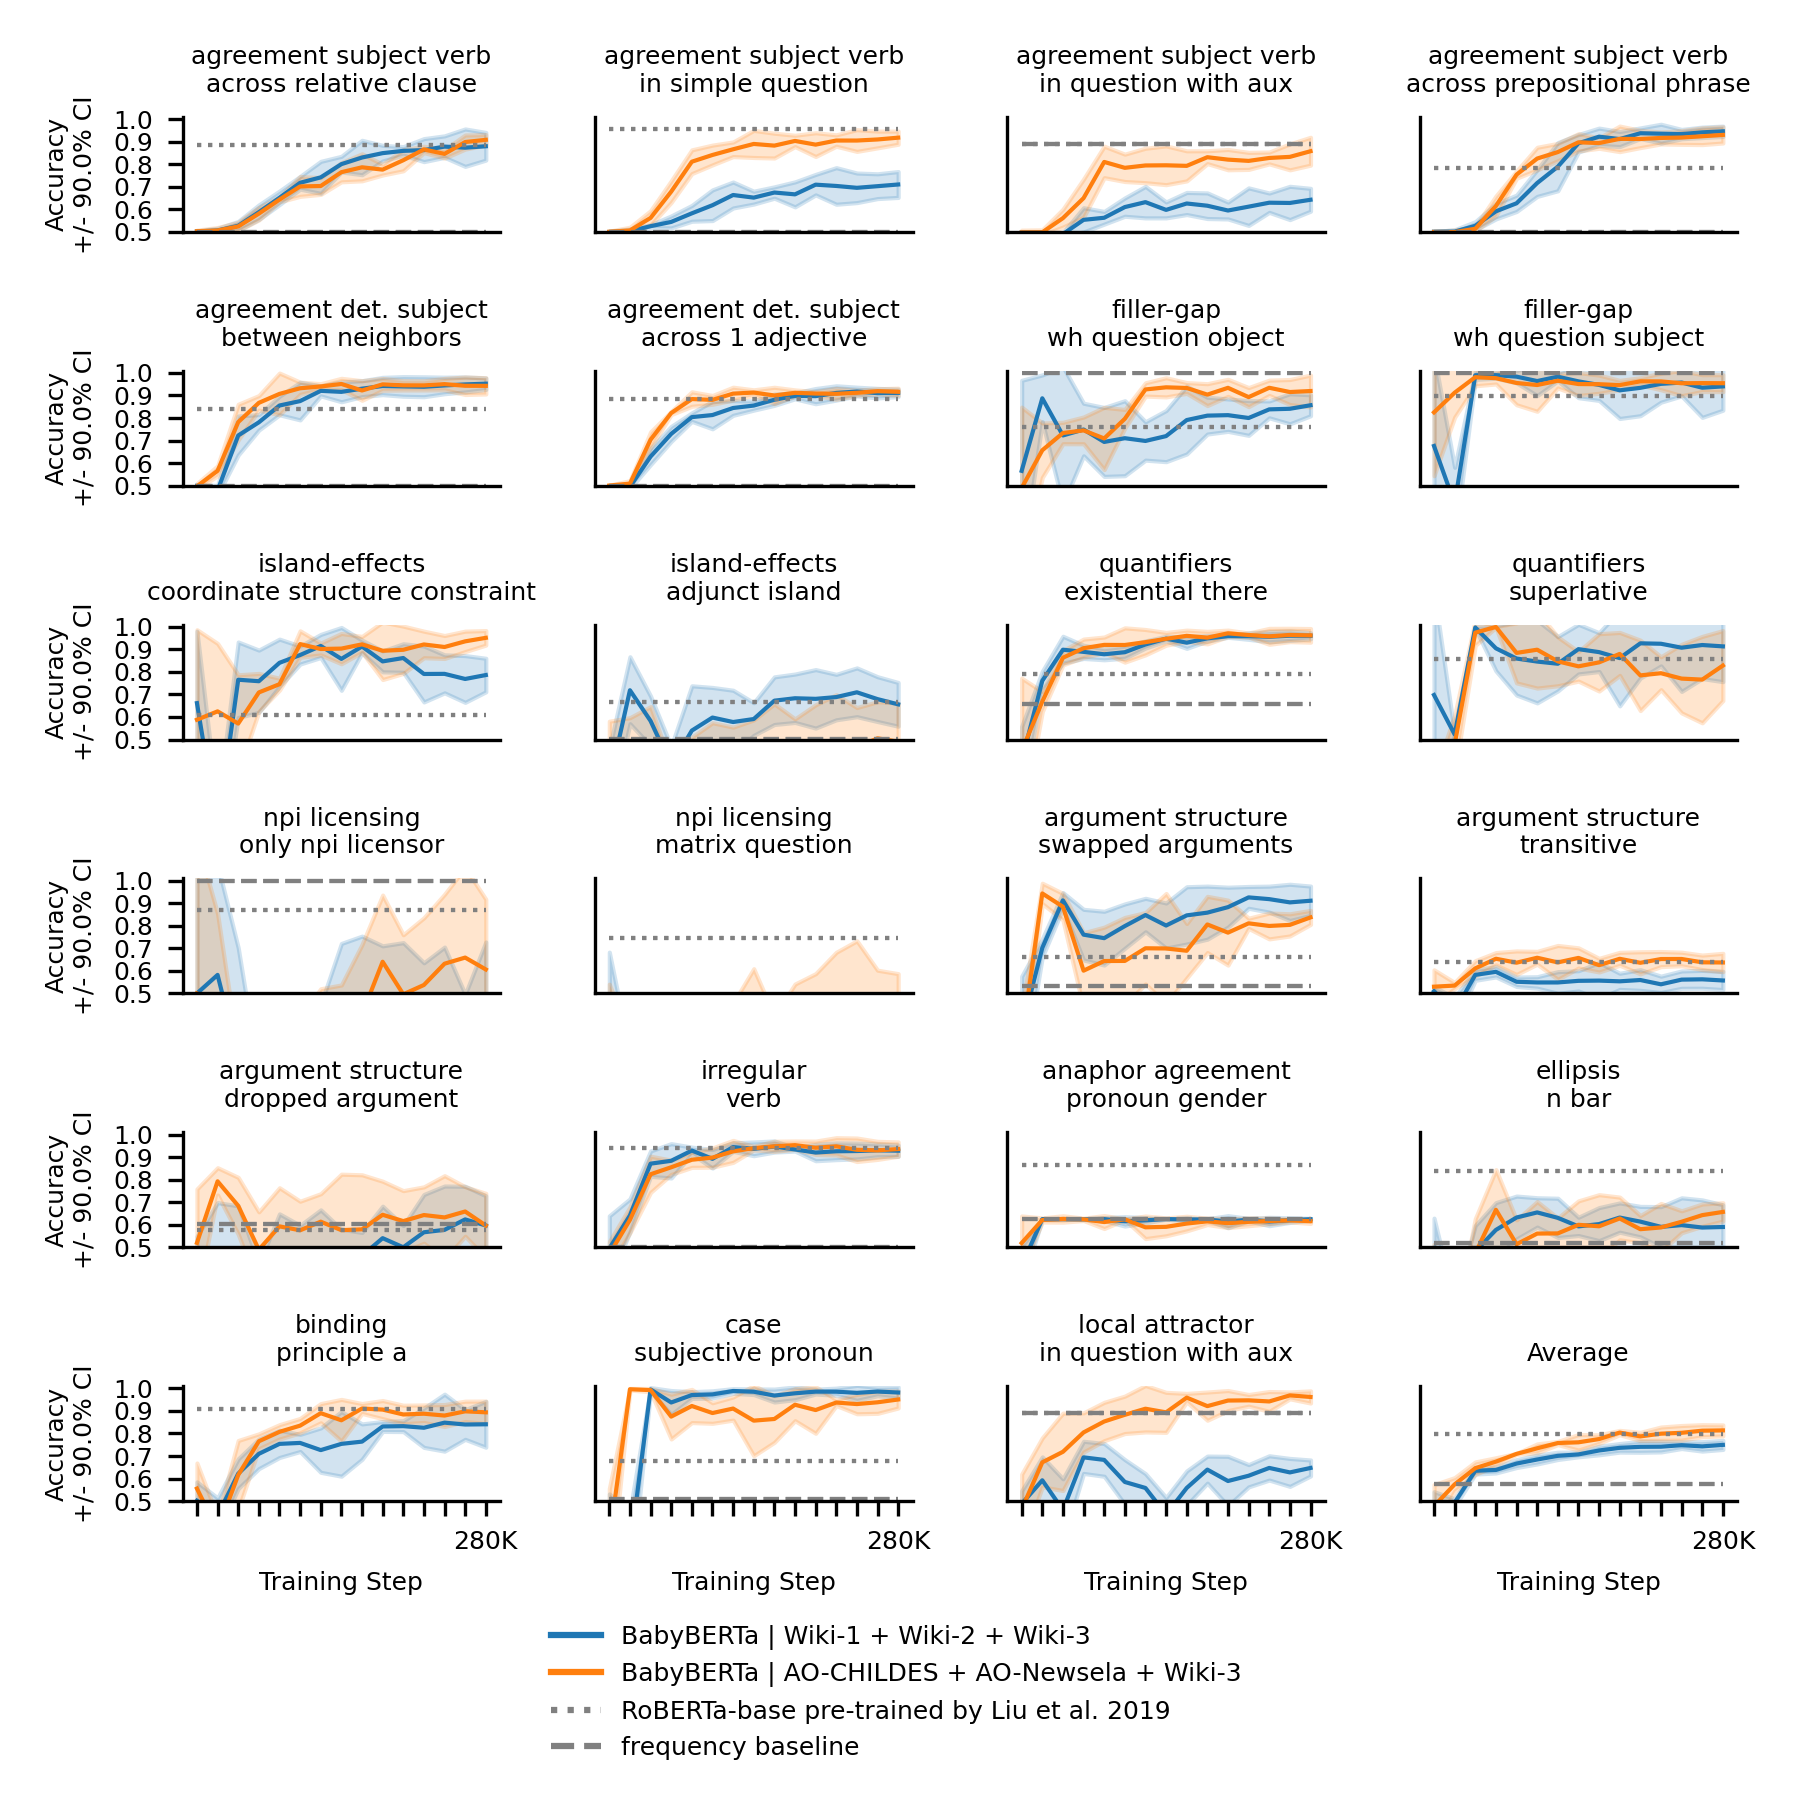
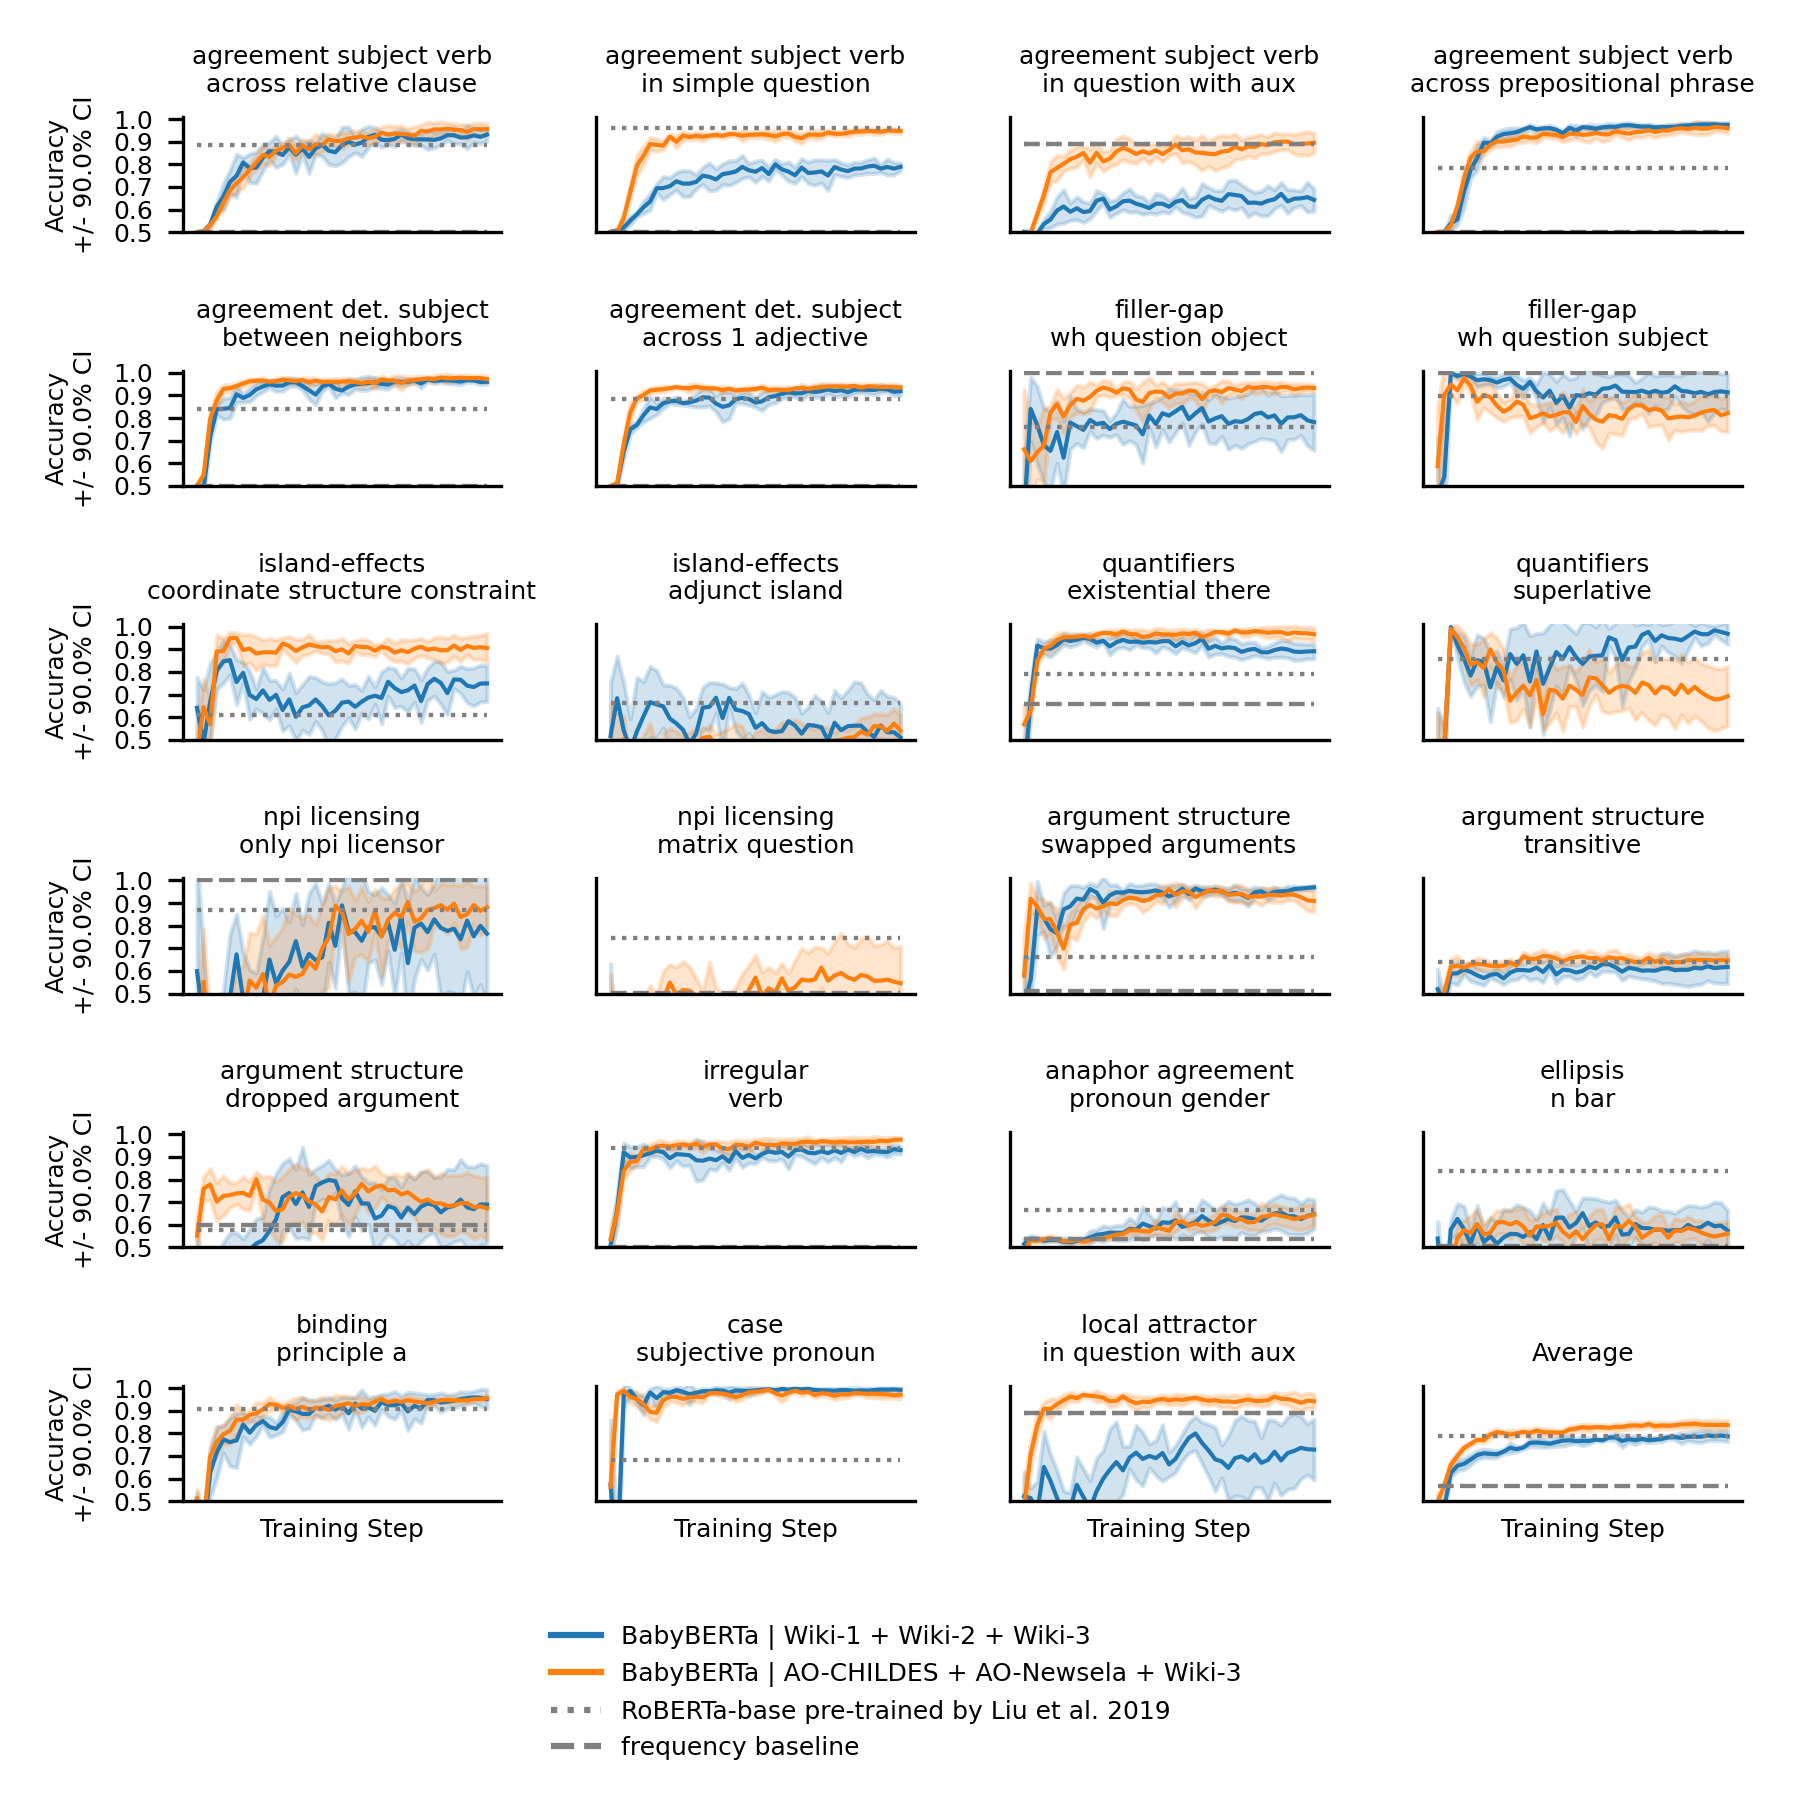
add option to plot bars for remote runs at specific step

diff --git a/scripts/plot_accuracy_single_time_point.py b/scripts/plot_accuracy_single_time_point.py
@@ -9,9 +9,17 @@ from zorro.visualizer import VisualizerBars, ParadigmDataBars
 from zorro.utils import prepare_data_for_plotting, get_phenomena_and_paradigms
 from zorro.io import get_group2model_output_paths
 
+
+STEP = '900000'
+LOCAL = False
+
 # get files locally, where we have runs at single time points only
-runs_path = configs.Dirs.runs_local
-configs.Eval.local_runs = True
+if LOCAL:
+    runs_path = configs.Dirs.runs_local
+    configs.Eval.local_runs = True
+else:
+    runs_path = configs.Dirs.runs_remote
+    configs.Eval.local_runs = False
 
 group_names = sorted([p.name for p in runs_path.glob('*')])
 print(f'Found {group_names}')
@@ -23,13 +31,16 @@ phenomena_paradigms = get_phenomena_and_paradigms()
 v = VisualizerBars(phenomena_paradigms=phenomena_paradigms)
 
 # for all paradigms
-for phenomenon, paradigm in phenomena_paradigms:
+for n, (phenomenon, paradigm) in enumerate(phenomena_paradigms):
+    print(f'Scoring and plotting results for phenomenon={phenomenon:<36} paradigm={paradigm:<36} '
+          f'{n + 1:>2}/{len(phenomena_paradigms)}')
 
     # load model output at all available steps
     group_name2model_output_paths = get_group2model_output_paths(group_names,
                                                                  runs_path,
                                                                  phenomenon,
                                                                  paradigm,
+                                                                 step=STEP,
                                                                  )
 
     # init data

diff --git a/zorro/io.py b/zorro/io.py
@@ -8,6 +8,7 @@ def get_group2model_output_paths(group_names: List[str],
                                  runs_path: Path,
                                  phenomenon: str,
                                  paradigm: str,
+                                 step: str = '*',
                                  ) -> Dict[str, List[Path]]:
     """load files containing the cross entropies assigned to each sentence in the paradigm, for all models and steps"""
 
@@ -16,14 +17,14 @@ def get_group2model_output_paths(group_names: List[str],
     # find paths to files, for each group
     res = {}
     for group_name in group_names:
-        pattern = '{}/**/saves/forced_choice/**/probing_{}_results_*.txt'
-        model_output_paths = [p for p in runs_path.rglob(pattern.format(group_name, fn))]
+        pattern = f'{group_name}/**/saves/forced_choice/**/probing_{fn}_results_{step}.txt'
+        model_output_paths = [p for p in runs_path.rglob(pattern)]
 
         if not model_output_paths:
             raise FileNotFoundError(f'Did not find model output'
                                     f' for group={group_name}'
                                     f' and vocab size={configs.Data.vocab_size}'
-                                    f' and pattern=probing_{fn}_results_*.txt')
+                                    f' and pattern=probing_{fn}_results_{step}.txt')
         else:
             res[group_name] = model_output_paths
 

diff --git a/zorro/utils.py b/zorro/utils.py
@@ -89,22 +89,22 @@ def get_phenomena_and_paradigms(excluded_paradigms: Optional[List[str]] = None,
                                 ) -> List[Tuple[str, str]]:
     phenomena = [
         # 4
-        # 'agreement_subject_verb',
-        # # 2
-        # 'agreement_demonstrative_subject',
-        # 'filler-gap',
-        # 'island-effects',
-        # 'quantifiers',
-        # 'npi_licensing',
-        # # 3
-        # 'argument_structure',
-        # # 1
-        # 'irregular',
+        'agreement_subject_verb',
+        # 2
+        'agreement_demonstrative_subject',
+        'filler-gap',
+        'island-effects',
+        'quantifiers',
+        'npi_licensing',
+        # 3
+        'argument_structure',
+        # 1
+        'irregular',
         'anaphor_agreement',
-        # 'ellipsis',
-        # 'binding',
-        # 'case',  # not in BLiMP
-        # 'local_attractor',  # not in BLiMP
+        'ellipsis',
+        'binding',
+        'case',  # not in BLiMP
+        'local_attractor',  # not in BLiMP
     ]
 
     if not excluded_paradigms:

diff --git a/zorro/visualizer.py b/zorro/visualizer.py
@@ -171,7 +171,7 @@ class VisualizerLines(VisualizerBase):
         # x-axis
         if ax_id >= (self.num_rows - 1 - 1) * self.num_cols:   # -1 for figure legend, -1 to all axes in row
             ax.set_xlabel(self.x_axis_label, fontsize=configs.Figs.ax_font_size)
-            ax.set_xticks(self.x_ticks)
+            ax.set_xticks([])
             ax.set_xticklabels(shorten_tick_labels(self.x_tick_labels), fontsize=configs.Figs.tick_font_size)
         # axis
         ax.spines['right'].set_visible(False)
@@ -241,7 +241,7 @@ class VisualizerLines(VisualizerBase):
         ax.set_ylim(self.y_lims)
 
         # x-axis
-        ax.set_xticks(self.x_ticks)
+        ax.set_xticks([])
         ax.set_xticklabels(shorten_tick_labels(self.x_tick_labels), fontsize=configs.Figs.tick_font_size)
         ax.set_xlabel(self.x_axis_label, fontsize=configs.Figs.ax_font_size)
 

diff --git a/zorro/configs.py b/zorro/configs.py
@@ -63,8 +63,8 @@ class Eval:
 
 
     # exp4b
-    steps = [i for i in range(0, 300_000, 20_000)]
-    param_names = [f'param_{i:03}' for i in [38, 39]]
+    steps = [i for i in range(0, 900_000, 20_000)]  # data goes to step 960K
+    param_names = [f'param_{i:03}' for i in [4, 5]]
     conditions = ['corpora']
 
 
